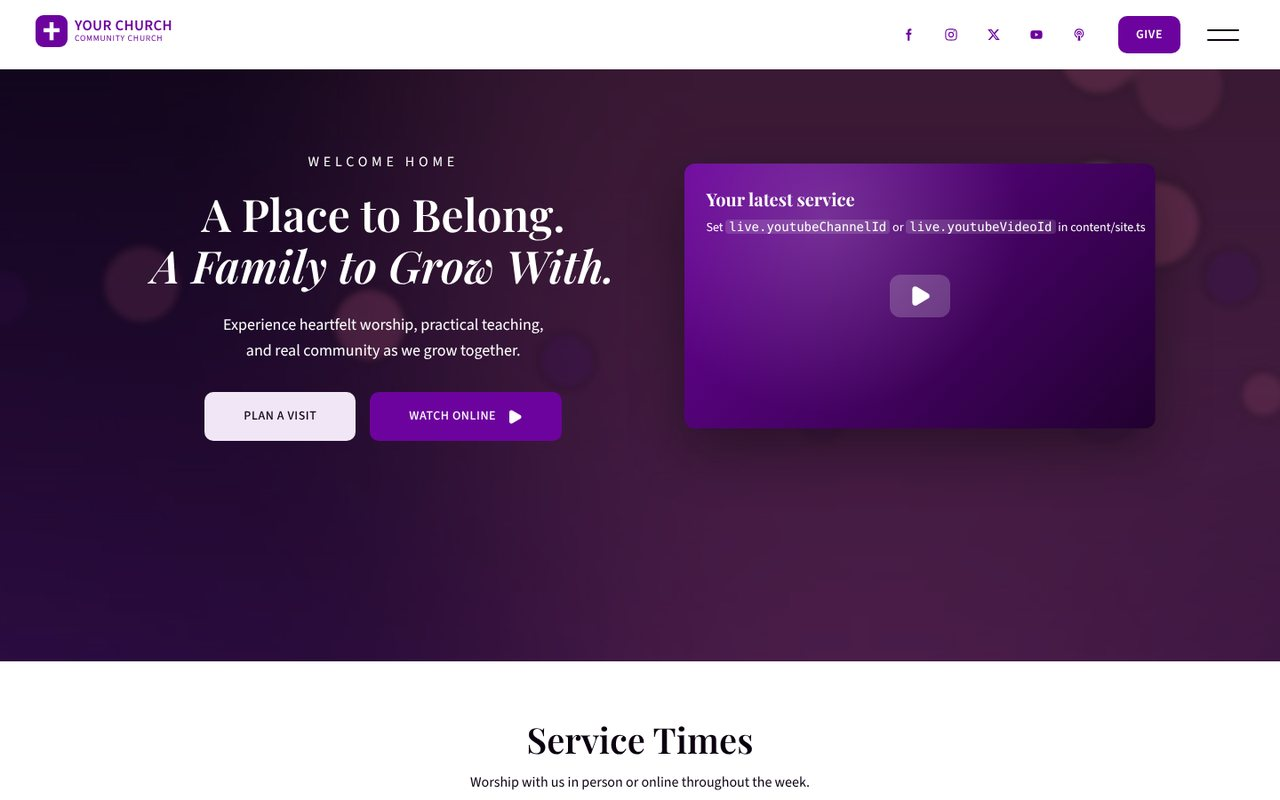
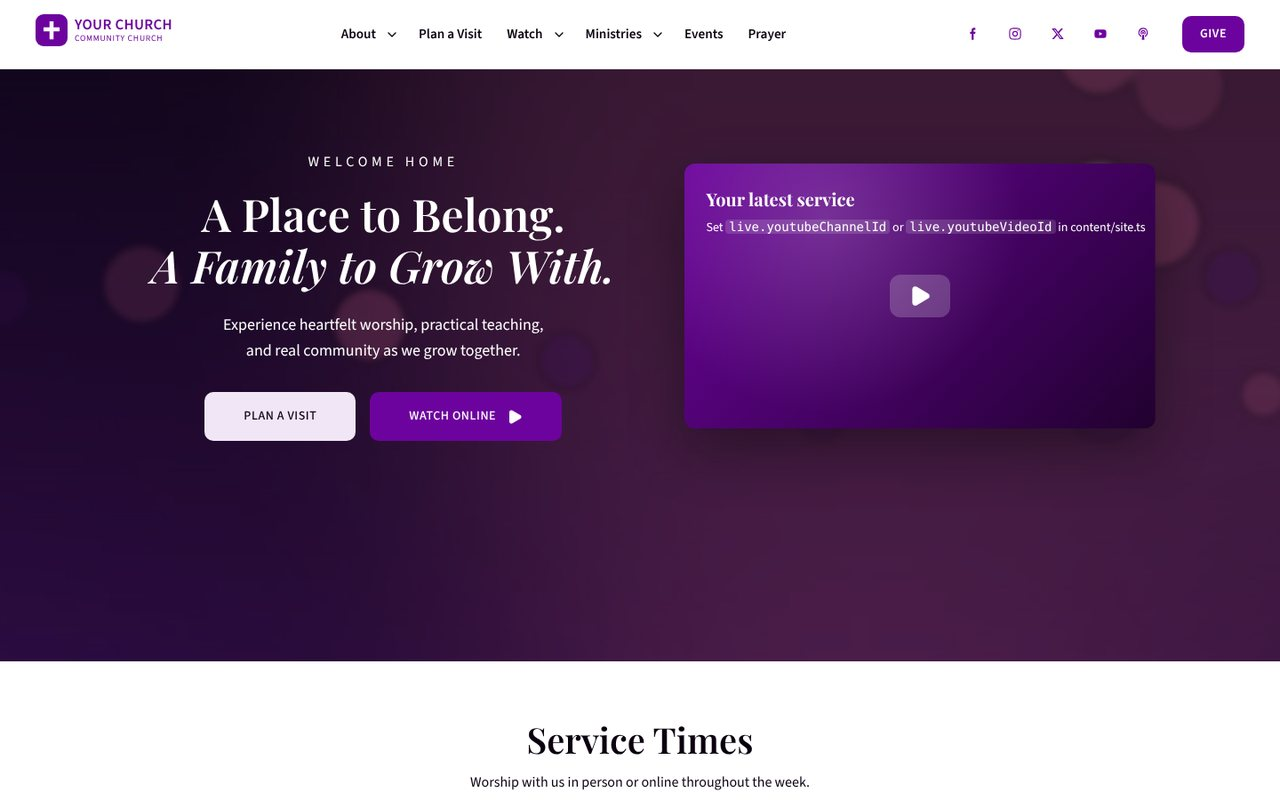
Add desktop navigation bar with dropdowns

diff --git a/src/layout/DesktopNav.tsx b/src/layout/DesktopNav.tsx
@@ -1,0 +1,113 @@
+import { useEffect, useRef, useState } from "react";
+import { NavLink, useLocation } from "react-router";
+import { ChevronDown } from "lucide-react";
+import { site, type NavItem } from "../content/site";
+import styles from "./DesktopNav.module.css";
+
+const items: NavItem[] = site.nav.filter((item: NavItem) => item.desktop !== false);
+
+/**
+ * Inline navigation for wide screens. Dropdowns open on hover, on keyboard
+ * focus, or by clicking the chevron (for touch laptops); Esc and outside
+ * clicks close them. The mobile drawer in Header.tsx covers small screens.
+ */
+export function DesktopNav() {
+  const [open, setOpen] = useState<string | null>(null);
+  const navRef = useRef<HTMLElement>(null);
+  const { pathname } = useLocation();
+
+  // Close any open dropdown when the route changes.
+  const [lastPath, setLastPath] = useState(pathname);
+  if (pathname !== lastPath) {
+    setLastPath(pathname);
+    setOpen(null);
+  }
+
+  // After clicking a dropdown link the link keeps focus, which would hold the menu
+  // open via :focus-within. Release focus from the nav once the new page loads.
+  useEffect(() => {
+    const active = document.activeElement;
+    if (active instanceof HTMLElement && navRef.current?.contains(active)) active.blur();
+  }, [pathname]);
+
+  useEffect(() => {
+    if (!open) return;
+    const onPointer = (e: PointerEvent) => {
+      if (!navRef.current?.contains(e.target as Node)) setOpen(null);
+    };
+    const onKey = (e: KeyboardEvent) => {
+      if (e.key !== "Escape") return;
+      // Return focus to the toggle so keyboard users keep their place.
+      navRef.current?.querySelector<HTMLButtonElement>(`[data-menu="${open}"]`)?.focus();
+      setOpen(null);
+    };
+    document.addEventListener("pointerdown", onPointer);
+    document.addEventListener("keydown", onKey);
+    return () => {
+      document.removeEventListener("pointerdown", onPointer);
+      document.removeEventListener("keydown", onKey);
+    };
+  }, [open]);
+
+  return (
+    <nav ref={navRef} className={styles.nav} aria-label="Main">
+      <ul className={styles.list}>
+        {items.map((item) => {
+          const children = item.children;
+          // Highlight a parent when you're on any of its pages (e.g. Watch while on /sermons).
+          const sectionActive =
+            pathname === item.to ||
+            (item.to !== "/" && pathname.startsWith(`${item.to}/`)) ||
+            !!children?.some((c) => pathname === c.to || pathname.startsWith(`${c.to}/`));
+
+          if (!children) {
+            return (
+              <li key={item.label} className={styles.item}>
+                <NavLink to={item.to} className={({ isActive }) => `${styles.link} ${isActive ? styles.active : ""}`}>
+                  {item.label}
+                </NavLink>
+              </li>
+            );
+          }
+
+          const isOpen = open === item.label;
+          const menuId = `desktop-menu-${item.label.toLowerCase().replace(/\s+/g, "-")}`;
+          return (
+            <li
+              key={item.label}
+              className={`${styles.item} ${styles.hasMenu} ${isOpen ? styles.open : ""}`}
+              onMouseLeave={() => isOpen && setOpen(null)}
+            >
+              <NavLink to={item.to} className={`${styles.link} ${sectionActive ? styles.active : ""}`} end>
+                {item.label}
+              </NavLink>
+              <button
+                type="button"
+                className={styles.toggle}
+                data-menu={item.label}
+                aria-expanded={isOpen}
+                aria-controls={menuId}
+                aria-label={`${item.label} menu`}
+                onClick={() => setOpen(isOpen ? null : item.label)}
+              >
+                <ChevronDown size={16} aria-hidden="true" />
+              </button>
+              <ul id={menuId} className={styles.dropdown}>
+                {children.map((child) => (
+                  <li key={child.label}>
+                    <NavLink
+                      to={child.to}
+                      className={({ isActive }) => `${styles.dropLink} ${isActive ? styles.dropActive : ""}`}
+                    >
+                      {child.label}
+                    </NavLink>
+                  </li>
+                ))}
+              </ul>
+            </li>
+          );
+        })}
+      </ul>
+    </nav>
+  );
+}

diff --git a/src/layout/DesktopNav.module.css b/src/layout/DesktopNav.module.css
@@ -1,0 +1,143 @@
+.nav {
+  display: none;
+}
+
+.list {
+  display: flex;
+  align-items: center;
+  gap: var(--space-1);
+  margin: 0;
+  padding: 0;
+  list-style: none;
+}
+
+.item {
+  position: relative;
+  display: flex;
+  align-items: center;
+}
+
+.link {
+  position: relative;
+  padding: var(--space-3) var(--space-3);
+  font-size: 0.95rem;
+  font-weight: 600;
+  color: var(--color-ink);
+  text-decoration: none;
+  white-space: nowrap;
+  border-radius: 8px;
+  transition: color 150ms ease;
+}
+.hasMenu .link {
+  padding-right: var(--space-1);
+}
+.link:hover {
+  color: var(--color-primary);
+}
+
+/* Underline marks the current section */
+.link::after {
+  content: "";
+  position: absolute;
+  left: var(--space-3);
+  right: var(--space-3);
+  bottom: 4px;
+  height: 2px;
+  background: var(--color-primary);
+  border-radius: 2px;
+  transform: scaleX(0);
+  transition: transform 200ms var(--ease-out);
+}
+.hasMenu .link::after {
+  right: var(--space-1);
+}
+.active {
+  color: var(--color-primary);
+}
+.active::after {
+  transform: scaleX(1);
+}
+
+.toggle {
+  display: grid;
+  place-items: center;
+  width: 28px;
+  height: 36px;
+  padding: 0;
+  color: var(--color-ink);
+  background: none;
+  border: 0;
+  border-radius: 6px;
+  cursor: pointer;
+}
+.toggle svg {
+  transition: transform 200ms var(--ease-out);
+}
+.toggle:hover {
+  color: var(--color-primary);
+}
+
+/* Dropdown: shown on hover, keyboard focus inside the item, or click (.open) */
+.dropdown {
+  position: absolute;
+  top: 100%;
+  left: 0;
+  z-index: 10;
+  min-width: 220px;
+  margin: 0;
+  padding: var(--space-2);
+  list-style: none;
+  background: var(--color-surface);
+  border: 1px solid var(--color-border);
+  border-radius: var(--radius-card);
+  box-shadow: 0 18px 40px rgba(33, 1, 47, 0.14);
+  opacity: 0;
+  visibility: hidden;
+  transform: translateY(6px);
+  transition:
+    opacity 150ms ease,
+    transform 150ms ease,
+    visibility 150ms;
+}
+/* Invisible bridge so the menu doesn't close while the pointer crosses the gap */
+.dropdown::before {
+  content: "";
+  position: absolute;
+  inset: -10px 0 auto;
+  height: 10px;
+}
+
+.hasMenu:hover .dropdown,
+.hasMenu:focus-within .dropdown,
+.open .dropdown {
+  opacity: 1;
+  visibility: visible;
+  transform: none;
+}
+.hasMenu:hover .toggle svg,
+.open .toggle svg {
+  transform: rotate(180deg);
+}
+
+.dropLink {
+  display: block;
+  padding: var(--space-2) var(--space-3);
+  font-size: 0.95rem;
+  color: var(--color-ink);
+  text-decoration: none;
+  border-radius: 8px;
+}
+.dropLink:hover {
+  color: var(--color-primary);
+  background: var(--color-primary-soft);
+}
+.dropActive {
+  font-weight: 600;
+  color: var(--color-primary);
+}
+
+@media (min-width: 1100px) {
+  .nav {
+    display: block;
+  }
+}

diff --git a/src/layout/Header.tsx b/src/layout/Header.tsx
@@ -3,6 +3,7 @@ import { Link, NavLink, useLocation } from "react-router";
 import { ChevronDown, X } from "lucide-react";
 import { site } from "../content/site";
 import { SocialIcon } from "../components/SocialIcon";
+import { DesktopNav } from "./DesktopNav";
 import { Logo } from "./Logo";
 import styles from "./Header.module.css";
 
@@ -19,6 +20,14 @@ export function Header() {
     setLastPath(pathname);
     setOpen(false);
   }
+
+  // The drawer is for small screens: close it if the window grows to desktop width.
+  useEffect(() => {
+    const mq = window.matchMedia("(min-width: 1100px)");
+    const onChange = (e: MediaQueryListEvent) => e.matches && setOpen(false);
+    mq.addEventListener("change", onChange);
+    return () => mq.removeEventListener("change", onChange);
+  }, []);
 
   // Lock scroll, close on Escape, and manage focus while the drawer is open.
   useEffect(() => {
@@ -46,6 +55,8 @@ export function Header() {
         <Link to="/" className={styles.logoLink} aria-label={`${site.name} home`}>
           <Logo />
         </Link>
+
+        <DesktopNav />
 
         <div className={styles.actions}>
           <ul className={styles.socials}>
@@ -82,7 +93,7 @@ export function Header() {
       <nav
         id="site-drawer"
         className={`${styles.drawer} ${open ? styles.drawerOpen : ""}`}
-        aria-label="Main"
+        aria-label="Mobile"
         aria-hidden={!open}
         inert={!open}
       >

diff --git a/src/layout/Header.module.css b/src/layout/Header.module.css
@@ -9,11 +9,14 @@
   display: flex;
   align-items: center;
   justify-content: space-between;
+  gap: var(--space-6);
   height: var(--header-h);
   padding-inline: var(--gutter);
+  border-bottom: 1px solid transparent;
 }
 
 .logoLink {
+  flex-shrink: 0;
   text-decoration: none;
 }
 
@@ -23,8 +26,9 @@
   gap: var(--space-6);
 }
 
+/* Social icons only where there's room beside the full nav (they're also in the footer and drawer). */
 .socials {
-  display: flex;
+  display: none;
   gap: var(--space-2);
   margin: 0;
   padding: 0;
@@ -190,6 +194,11 @@
   padding: 0 0 0 var(--space-4);
   overflow: hidden;
   list-style: none;
+  visibility: hidden;
+  transition: visibility 300ms;
+}
+.submenuOpen .submenuList {
+  visibility: visible;
 }
 .submenuOpen .submenuList {
   padding-bottom: var(--space-4);
@@ -214,8 +223,20 @@
   color: var(--color-primary);
 }
 
-@media (max-width: 900px) {
+@media (min-width: 1360px) {
   .socials {
+    display: flex;
+  }
+}
+
+/* Desktop: inline nav replaces the hamburger. */
+@media (min-width: 1100px) {
+  .bar {
+    border-bottom-color: var(--color-border);
+  }
+  .hamburger,
+  .drawer,
+  .scrim {
     display: none;
   }
 }

diff --git a/src/content/site.ts b/src/content/site.ts
@@ -9,6 +9,8 @@ export interface NavItem {
   label: string;
   to: string;
   children?: { label: string; to: string }[];
+  /** Set false to keep an item out of the desktop bar (it still shows in the mobile drawer). */
+  desktop?: boolean;
 }
 
 export const site = {
@@ -17,7 +19,7 @@ export const site = {
   description: "A place to belong. Worship with us in person or online.",
 
   nav: [
-    { label: "Home", to: "/" },
+    { label: "Home", to: "/", desktop: false }, // the logo links home
     {
       label: "About",
       to: "/about",
@@ -48,7 +50,7 @@ export const site = {
     },
     { label: "Events", to: "/events" },
     { label: "Prayer", to: "/prayer" },
-    { label: "Give", to: "/give" },
+    { label: "Give", to: "/give", desktop: false }, // the Give button covers it
   ] satisfies NavItem[],
 
   socials: [

diff --git a/README.md b/README.md
@@ -19,7 +19,7 @@ optional API is Express 5. Validation is shared between both with Zod.
 </p>
 <p align="center">
   <img src="docs/screenshots/give.jpg" width="49%" alt="Giving: amount and fund picker" />
-  <img src="docs/screenshots/menu.jpg" width="49%" alt="Slide-in navigation drawer with submenus" />
+  <img src="docs/screenshots/menu.jpg" width="49%" alt="Desktop navigation bar with dropdown menus" />
 </p>
 
 ![Responsive on mobile](docs/screenshots/mobile.jpg)
